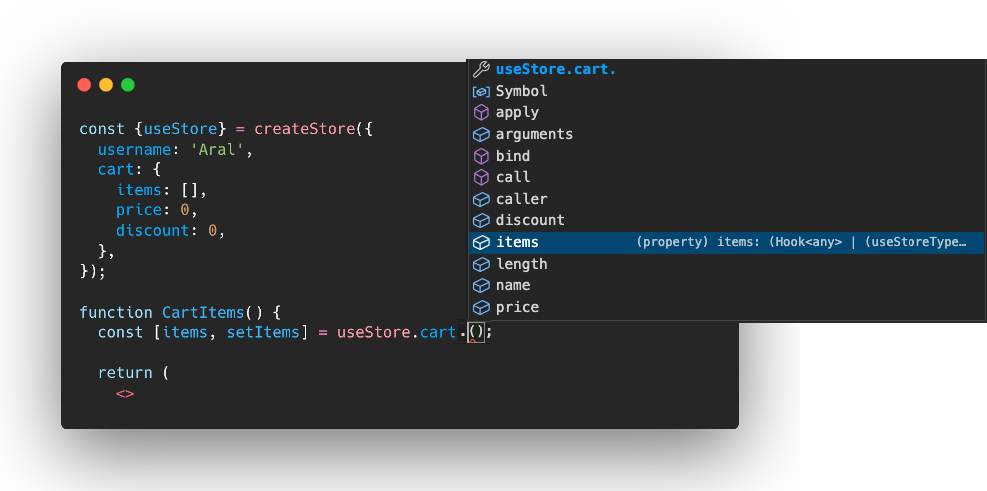
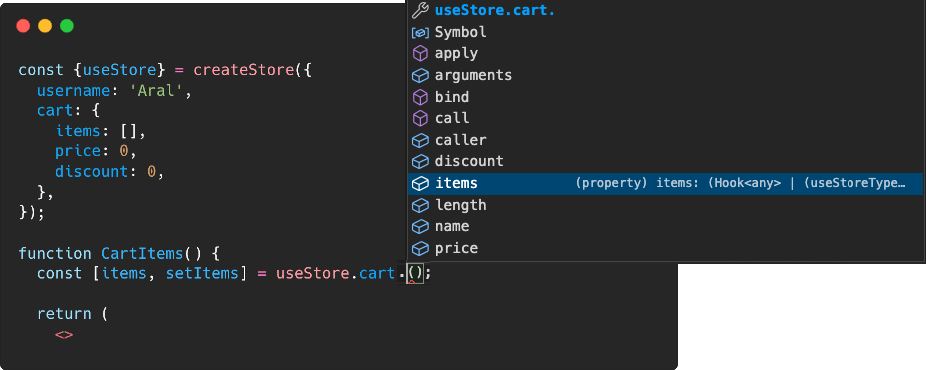
Replace img (#72)
* Add image to readme

* Update README.md

diff --git a/README.md b/README.md
@@ -28,7 +28,10 @@ _Tiny, easy and powerful **React state management** library_
     <li>🚀  ・<b>Powerful</b>: When a store property is updated, only its components are re-rendered. It's not re-rendering components that use other store properties.</li>
 </ul>
 
-<img src="/assets/teaful.png" />
+<div align="center" >
+<img width="800" src="/assets/teaful.png" />
+</div>
+
 
 ## Guide 🗺
 
